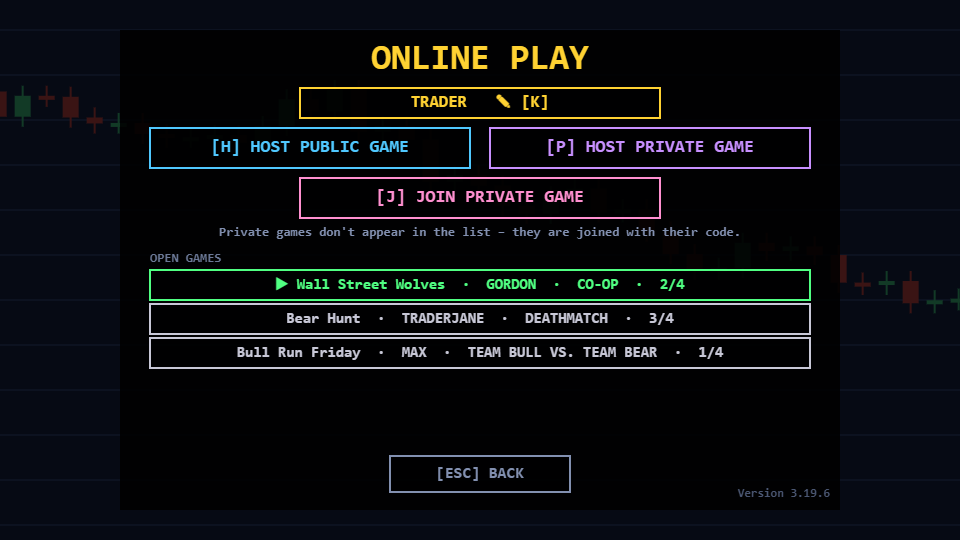
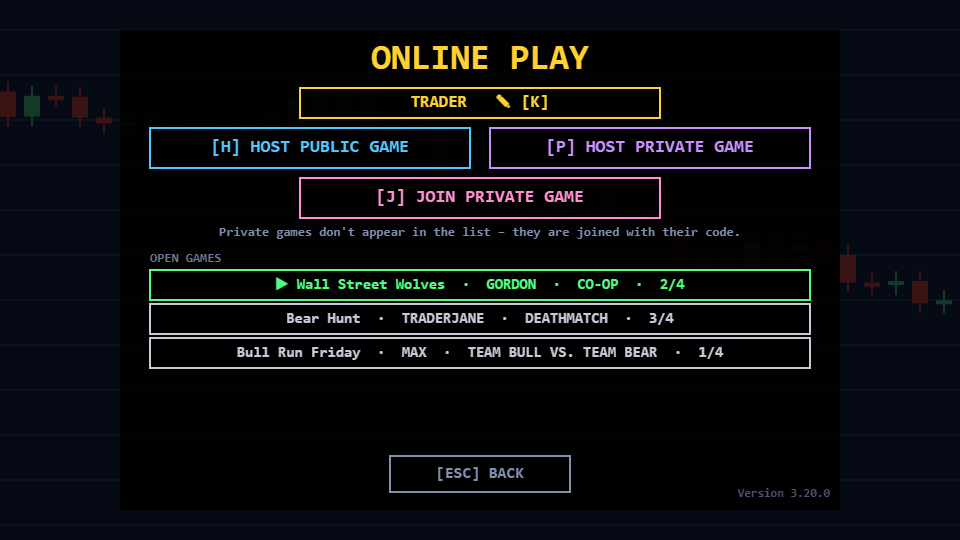
MARGIN CALL 3.20.0: neues Hauptmenue mit Solo-Auswahl, Credits, Vollbild- und Sprachknopf, Touch-Anleitung

Changed region(s): [[0.0, 0.1481, 0.125, 0.237], [0.875, 0.4741, 1.0, 0.5926]]

diff --git a/pc/game.html b/pc/game.html
@@ -79,7 +79,7 @@
 // Sprache: Englisch ist Standard, Deutsch per Optionsmenue. L(en, de) waehlt den passenden Text.
 const L = (en, de) => { try { return settings.lang === "de" ? de : en; } catch (e) { return en; } };
 const LOC = () => L("en-US", "de-DE");
-const APP_VERSION = "3.19.8";
+const APP_VERSION = "3.20.0";
 // Online-Rangliste (Cloudflare Worker, siehe worker/README.md). Leer = nicht eingerichtet, dann ist alles Online ausgeblendet.
 const ONLINE_HS_URL = "https://margincall-highscores.margincall.workers.dev";
 const RW = 320, VH = 150, TEX = 32, MAP = 20, NUM_LEVELS = 5;
@@ -1477,6 +1477,8 @@ function saveSettings() { try { localStorage.setItem(SETTINGS_KEY, JSON.stringif
 const keys = new Set();
 let mouseTurn = 0;
 const COARSE = matchMedia("(pointer: coarse)").matches || (navigator.maxTouchPoints > 0 && matchMedia("(hover: none)").matches);   // Smartphone oder Tablet
+if (COARSE) document.getElementById("hint").style.display = "none";   // Tastenkuerzel braucht es am Handy nicht
+let touchHelpT = 0;   // Anleitung der Touch-Steuerung beim ersten Spiel
 const down = a => settings.binds[a].some(k => k && keys.has(k));
 const isBound = (a, k) => settings.binds[a].includes(k);
 const keyName = e => e.code === "Space" ? " " : e.code === "Enter" || e.code === "NumpadEnter" ? "enter" : e.key.length === 1 ? e.key.toLowerCase() : e.key;
@@ -1491,9 +1493,9 @@ const bindText = a => settings.binds[a].filter(Boolean).map(bindLabel).join("/")
 function updateHint() {
   document.getElementById("hint").textContent =
     L(`${bindText("fwd")}/${bindText("back")} move · ${bindText("turnL")}/${bindText("turnR")} turn · ${bindText("strafeL")}/${bindText("strafeR")} strafe · ${bindText("fire")} fire · ${bindText("pause")} pause · ` +
-      `${bindText("music")} music · double-tap a direction = dodge · H highscores · O options · T chat (multiplayer) · Tab stats · F4 fullscreen · Q in pause = main menu`,
+      `${bindText("music")} music · double-tap a direction = dodge · H highscores · O options · T chat (multiplayer) · Tab stats · F4 fullscreen · L language (main menu)`,
     `${bindText("fwd")}/${bindText("back")} laufen · ${bindText("turnL")}/${bindText("turnR")} drehen · ${bindText("strafeL")}/${bindText("strafeR")} seitwärts · ${bindText("fire")} feuern · ${bindText("pause")} Pause · ` +
-      `${bindText("music")} Musik · 2× Richtung = Ausweichen · H Highscores · O Optionen · T Chat (Multiplayer) · Tab Statistik · F4 Vollbild · Q in der Pause = Hauptmenü`);
+      `${bindText("music")} Musik · 2× Richtung = Ausweichen · H Highscores · O Optionen · T Chat (Multiplayer) · Tab Statistik · F4 Vollbild · L Sprache (Hauptmenü)`);
 }
 
 // Optionsmenue
@@ -1633,7 +1635,7 @@ addEventListener("keyup", e => keys.delete(keyName(e)));
 addEventListener("blur", () => keys.clear());
 screen.addEventListener("contextmenu", e => e.preventDefault());
 // Schaltflaechen im Titelbild (Koordinaten im 960x540-Raster)
-const TITLE_BTNS = [{ x: 50, y: 455, w: 200, h: 44, key: "n" }, { x: 265, y: 455, w: 200, h: 44, key: "h" }, { x: 480, y: 455, w: 200, h: 44, key: "o" }, { x: 695, y: 455, w: 200, h: 44, key: "Escape" }];
+const TITLE_BTNS = [];   // Knoepfe im Titelbild sind jetzt Klickflaechen (zoneButton)
 screen.addEventListener("mousedown", e => {
   e.preventDefault();
   audioUnlock();
@@ -1722,6 +1724,7 @@ function mobileFullscreen() {   // Vollbild-Knopf: Querformat im Vollbild bzw. w
   layer.addEventListener("pointerdown", e => {
     if (e.target !== layer) return;
     e.preventDefault(); audioUnlock();
+    if (touchHelpT > 0 && touchHelpT < 7.8) touchHelpT = .5;   // Anleitung beim Tippen ausblenden
     // linke und rechte Haelfte sind strikt getrennt: links nur der Stick (ein Finger), rechts Drehen und Feuern
     if (e.clientX < innerWidth / 2) {
       if (stickId !== null) return;   // zweiter Finger links: ignorieren
@@ -1788,6 +1791,12 @@ function onKeyPress(k) {
     else if (isBound("pause", k) || k === "Escape") { if (k !== "Escape" || pauseAge() > .4) { mpMenu = false; lockMouse(); } }
     return;
   }
+  if (state === ST.TITLE && soloAsk) {   // Auswahl Normal / Hardcore
+    if (k === "enter" || k === "1") { soloAsk = false; startSolo(false); }
+    else if (k === "x" || k === "2") { soloAsk = false; startSolo(true); }
+    else if (k === "Escape") soloAsk = false;
+    return;
+  }
   if (state === ST.TITLE && quitAsk) {
     if (k === "enter") { quitAsk = false; quitGame(); }
     else if (k === "Escape") quitAsk = false;
@@ -1802,12 +1811,12 @@ function onKeyPress(k) {
     case ST.TITLE:
       if (k === "o") openOptions();
       else if (k === "h") openHighscores();
+      else if (k === "c") startMenuCredits();
+      else if (k === "l") { settings.lang = settings.lang === "de" ? "en" : "de"; saveSettings(); buildTicker(); sfx("HIT"); }
       else if (k === "Escape") quitAsk = true;
       else if (k === "n") { if (WEB_BUILD) openOnline(); else if (IN_APP && isLocalOrigin()) state = ST.MPMENU; else enterLobby(); }
-      else if (k === "enter" || k === "x") {   // X = Hardcore
-        hardcore = k === "x"; mode = "solo"; players = [me = makePlayer(0, true)]; newGame(); if (hardcore) me.ammo = 20;
-        state = ST.PLAY; fireCd = .4; sfx("KACHING"); lockMouse(); if (hardcore) say(L("HARDCORE: ONE BANKRUPTCY AND IT'S OVER", "HARDCORE: EINE INSOLVENZ UND ES IST VORBEI"), 3);
-      }
+      else if (k === "enter") soloAsk = true;   // Auswahl Normal / Hardcore
+      else if (k === "x") startSolo(true);
       break;
     case ST.LOBBY:
       if (k === "Escape") { leaveMP(); break; }
@@ -1863,7 +1872,7 @@ function onKeyPress(k) {
       else if (k === "h") finishRun(false);   // aufgeben: Lauf endet, Highscore eintragen
       break;
     case ST.CREDITS:
-      if (k === "enter" || k === "Escape" || k === " ") startIsland();
+      if (k === "enter" || k === "Escape" || k === " ") creditsDone();
       break;
     case ST.OUTRO:
       if (k === "enter" || k === "Escape" || k === " ") state = ST.WIN;
@@ -2669,8 +2678,9 @@ const creditLines = () => [
   [L("Live quotes", "Live-Kurse"), 16, "#8290b0"], ["Yahoo Finance", 20, "#e6e6f0"], ["", 8],
   [L("Tech", "Technik"), 16, "#8290b0"], ["Tauri · Rust · Cloudflare · M5Stack Cardputer", 20, "#e6e6f0"], ["", 18],
   [L("No bulls or bears were seriously harmed.", "Kein Bulle und kein Bär wurde ernsthaft verletzt."), 16, "#a0a0b4"], [L("Not investment advice.", "Keine Anlageberatung."), 16, "#a0a0b4"], ["", 26],
-  [L("The market is free again.", "Der Markt ist wieder frei."), 22, "#50ff82"], [L("But where to put all that money now …?", "Aber wohin jetzt mit dem ganzen Geld …?"), 22, "#50ff82"], ["", 14],
-  [L("OFF TO TAX HAVEN!", "AB INS STEUERPARADIES!"), 34, "#ffd232"],
+  ...(creditsMenu ? [[L("THANKS FOR PLAYING!", "DANKE FÜRS SPIELEN!"), 34, "#ffd232"]] : [
+    [L("The market is free again.", "Der Markt ist wieder frei."), 22, "#50ff82"], [L("But where to put all that money now …?", "Aber wohin jetzt mit dem ganzen Geld …?"), 22, "#50ff82"], ["", 14],
+    [L("OFF TO TAX HAVEN!", "AB INS STEUERPARADIES!"), 34, "#ffd232"]]),
 ];
 function renderCredits() {
   chartBackground("#145a2d", "#282828");
@@ -2882,20 +2892,15 @@ function renderTitle() {
   text(`${L("Quotes as of", "Kursstand")}: ${when}  ·  ${mStat()}`, DW / 2, 312, "#8290b0", 15, "center");
   // Hauptknopf: Einzelspieler starten (pulsiert leicht)
   const pulse = .5 + .5 * Math.sin(gameTime * 4);
-  g.fillStyle = `rgba(255,210,50,${(.08 + .1 * pulse).toFixed(2)})`; g.fillRect(170, 378, 360, 56);
-  zoneButton(170, 378, 360, 56, L("▶  [ENTER] PLAY SOLO", "▶  [ENTER] SOLO SPIELEN"), "#ffd232", "enter", 24);
-  zoneButton(550, 378, 240, 56, "☠  [X] HARDCORE", "#ff5050", "x", 22);
-  button(TITLE_BTNS[0], "[N] MULTIPLAYER", "#50c8ff");
-  button(TITLE_BTNS[1], "[H] HIGHSCORES", "#ffd232");
-  button(TITLE_BTNS[2], L("[O] OPTIONS", "[O] OPTIONEN"), "#50ff82");
-  button(TITLE_BTNS[3], L("[ESC] QUIT", "[ESC] BEENDEN"), "#ff7050");
+  g.fillStyle = `rgba(255,210,50,${(.08 + .1 * pulse).toFixed(2)})`; g.fillRect(280, 352, 400, 60);
+  zoneButton(280, 352, 400, 60, L("▶  [ENTER] PLAY SOLO", "▶  [ENTER] SOLO SPIELEN"), "#ffd232", "enter", 26);
+  [["[N] MULTIPLAYER", "#50c8ff", "n"], ["[H] HIGHSCORES", "#ffd232", "h"], [L("[O] OPTIONS", "[O] OPTIONEN"), "#50ff82", "o"],
+   ["[C] CREDITS", "#c890ff", "c"], [L("[ESC] QUIT", "[ESC] BEENDEN"), "#ff7050", "Escape"]]
+    .forEach(([lb, col, key], i) => zoneButton(30 + i * 182, 452, 172, 44, lb, col, key, 16));
+  zoneButton(14, 34, 150, 30, settings.lang === "de" ? "[L] ENGLISH" : "[L] DEUTSCH", "#50c8ff", "l", 14);
+  if (!COARSE) zoneButton(DW - 194, 34, 180, 30, fsOn ? L("⛶ [F4] EXIT FULLSCREEN", "⛶ [F4] VOLLBILD AUS") : L("⛶ [F4] FULLSCREEN", "⛶ [F4] VOLLBILD"), "#ffd232", "F4", 14);
   if (netMsgT > 0) text(netMsg, DW / 2, 428, "#ff7050", 16, "center");
   text(CREDITS, DW - 14, 518, "#6b7896", 13, "right");
-  // Vollbild-Hinweis unten links (anklickbar)
-  const fsLabel = L(`[F4] FULLSCREEN ${fsOn ? "OFF" : "ON"}`, `[F4] VOLLBILD ${fsOn ? "AUS" : "AN"}`);
-  g.font = FONT(13); const fsW = g.measureText(fsLabel).width;
-  text(fsLabel, 14, 518, hovered(10, 512, fsW + 8, 22) ? "#ffffff" : "#8290b0", 13);
-  zone(10, 512, fsW + 8, 22, "F4");
 }
 function renderLobby() {
   chartBackground("#123a26", "#3a1414");
@@ -3718,6 +3723,39 @@ function joinKey(k) {
   }
   if (k.length === 1 && /[0-9a-z.:\-]/.test(k) && joinText.length < 40) joinText += k;
 }
+let soloAsk = false;
+function startSolo(hc) {
+  hardcore = hc; mode = "solo"; players = [me = makePlayer(0, true)]; newGame(); if (hardcore) me.ammo = 20;
+  state = ST.PLAY; fireCd = .4; sfx("KACHING"); lockMouse(); if (hardcore) say(L("HARDCORE: ONE BANKRUPTCY AND IT'S OVER", "HARDCORE: EINE INSOLVENZ UND ES IST VORBEI"), 3);
+}
+function renderTouchHelp() {   // erklaert die Handy-Steuerung, verschwindet nach ein paar Sekunden oder beim Tippen
+  g.globalAlpha = Math.min(1, touchHelpT / .6);
+  const box = (x, y, w, h, title, lines, col) => {
+    g.fillStyle = "rgba(0,0,0,.78)"; g.fillRect(x, y, w, h); g.strokeStyle = col; g.lineWidth = 2; g.strokeRect(x, y, w, h);
+    text(title, x + w / 2, y + 10, col, 20, "center");
+    lines.forEach((l, i) => text(l, x + w / 2, y + 42 + i * 22, "#e6e6f0", 15, "center"));
+  };
+  box(40, 120, 400, 140, L("◀ LEFT HALF: MOVE", "◀ LINKE HÄLFTE: LAUFEN"), [L("Put your thumb down anywhere", "Daumen irgendwo aufsetzen"), L("and push = walk & strafe", "und schieben = laufen & seitwärts"), L("Tap = one shot", "Antippen = ein Schuss")], "#50c8ff");
+  box(520, 120, 400, 140, L("RIGHT HALF: AIM & FIRE ▶", "RECHTE HÄLFTE: ZIELEN & FEUERN ▶"), [L("Swipe = turn", "Wischen = drehen"), L("Tap = shot · hold = continuous fire", "Tippen = Schuss · halten = Dauerfeuer"), L("(you can keep turning while holding)", "(beim Halten weiter drehbar)")], "#ffd232");
+  g.fillStyle = "rgba(0,0,0,.78)"; g.fillRect(650, 280, 196, 28); g.fillRect(56, 68, 120, 26); g.fillRect(250, 290, 460, 26);
+  text(L("dash  » ▶", "Ausweichen  » ▶"), 836, 285, "#ffd232", 16, "right");
+  text(L("◀ II = pause", "◀ II = Pause"), 64, 73, "#e6e6f0", 15);
+  text(L("Auto aim and turn speed: Options", "Auto-Aim und Drehtempo: Optionen"), DW / 2, 296, "#c8c8d7", 14, "center");
+  g.globalAlpha = 1;
+}
+function renderSoloAsk() {
+  g.fillStyle = "rgba(0,0,0,.75)"; g.fillRect(0, 0, DW, DH);
+  g.fillStyle = "#07090f"; g.fillRect(150, 110, 660, 320); g.strokeStyle = "#ffd232"; g.lineWidth = 2; g.strokeRect(150, 110, 660, 320);
+  text(L("PLAY SOLO", "SOLO SPIELEN"), DW / 2, 128, "#ffd232", 30, "center");
+  zoneButton(180, 180, 290, 64, L("▶  [ENTER] NORMAL", "▶  [ENTER] NORMAL"), "#50ff82", "enter", 22);
+  zoneButton(490, 180, 290, 64, "☠  [X] HARDCORE", "#ff5050", "x", 22);
+  [L("All 5 levels.", "Alle 5 Level."), L("Broke? A new loan", "Pleite? Mit neuem Kredit"), L("gets you back in the game.", "geht es weiter.")].forEach((l, i) => text(l, 325, 256 + i * 20, "#c8c8d7", 14, "center"));
+  [L("Much tougher enemies,", "Viel stärkere Gegner,"), L("fewer supplies, 1.5× points", "weniger Nachschub, 1,5-fache Punkte"), L("– and only ONE life.", "– und nur EIN Leben.")].forEach((l, i) => text(l, 635, 256 + i * 20, "#ffb0a0", 14, "center"));
+  zoneButton(380, 362, 200, 40, L("[ESC] BACK", "[ESC] ZURÜCK"), "#8290b0", "Escape", 16);
+}
+let creditsMenu = false;   // Abspann aus dem Hauptmenue: danach zurueck ins Menue statt in die Steueroase
+function startMenuCredits() { creditsMenu = true; creditsT = 0; state = ST.CREDITS; musicStart(); }
+function creditsDone() { if (creditsMenu) { creditsMenu = false; state = ST.TITLE; musicStart(); } else startIsland(); }
 function renderQuitAsk() {
   g.fillStyle = "rgba(0,0,0,.75)"; g.fillRect(0, 0, DW, DH);
   g.fillStyle = "#000"; g.fillRect(250, 180, 460, 150); g.strokeStyle = "#ff7050"; g.lineWidth = 2; g.strokeRect(250, 180, 460, 150);
@@ -3826,12 +3864,16 @@ function frame(now) {
   }
   if (isHost() && net.connected && isMP() && state !== ST.PLAY && state !== ST.LOBBY && performance.now() - lastSent > (net.online ? 500 : 200)) { lastSent = performance.now(); hostSendSnapshot(); }
   switch (state) {
-    case ST.TITLE: gameTime += dt; renderTitle(); if (quitAsk) renderQuitAsk(); break;
+    case ST.TITLE: gameTime += dt; renderTitle(); if (soloAsk) renderSoloAsk(); else if (quitAsk) renderQuitAsk(); break;
     case ST.PRIVACY: gameTime += dt; renderPrivacy(); break;
     case ST.NAMEENTRY: gameTime += dt; renderNameEntry(); break;
     case ST.HIGHSCORES: gameTime += dt; renderHighscores(); break;
     case ST.LOBBY: gameTime += dt; renderLobby(); break;
-    case ST.PLAY: updateGame(dt); if (state === ST.PLAY) { renderPlay(dt); if (mpMenu) renderMpMenu(); } break;
+    case ST.PLAY: updateGame(dt); if (state === ST.PLAY) {
+      renderPlay(dt); if (mpMenu) renderMpMenu();
+      if (COARSE && !settings.touchHelpSeen) { settings.touchHelpSeen = true; saveSettings(); touchHelpT = 9; }
+      if (touchHelpT > 0) { touchHelpT -= dt; renderTouchHelp(); }
+    } break;
     case ST.MPMENU: gameTime += dt; renderMpChoice(); break;
     case ST.JOIN: gameTime += dt; renderJoin(); break;
     case ST.ONLINE: gameTime += dt; renderOnline(); break;
@@ -3859,7 +3901,7 @@ function frame(now) {
       if (HC()) renderEnd("GAME OVER", L("Hardcore: bankruptcy is final – your run is over", "Hardcore: Die Insolvenz ist endgültig – dein Lauf ist vorbei"), "#ff3c3c", false);
       else renderEnd(L("BANKRUPT", "INSOLVENZ"), L(`Bankruptcy no. ${me.deaths} – penalty −$${deathPenalty.toLocaleString(LOC())} (25 % of P&L)`, `Insolvenz Nr. ${me.deaths} – Strafe −$${deathPenalty.toLocaleString(LOC())} (25 % des P&L)`), "#ff3c3c", false);
       break;
-    case ST.CREDITS: gameTime += dt; creditsT += dt; renderCredits(); if (creditsT > CREDITS_LEN) startIsland(); break;
+    case ST.CREDITS: gameTime += dt; creditsT += dt; renderCredits(); if (creditsT > CREDITS_LEN) creditsDone(); break;
     case ST.OUTRO: gameTime += dt; outroT += dt; renderOutro(dt); if (outroT > OUTRO_LEN) state = ST.WIN; break;
     case ST.WIN: gameTime += dt;
       if (islandDone) { renderEnd(L("TAX HAVEN", "STEUEROASE"), `${isleResult}  ·  Gold ${isleCoins}/${ISLE_COINS}${isleAll ? ` · Bonus +$${ISLE_ALL_BONUS.toLocaleString(LOC())}` : ""}`, "#ffd232", true); break; }

diff --git a/src/main.cpp b/src/main.cpp
@@ -46,7 +46,7 @@ enum { S_BEAR0, S_BEAR1, S_SELL0, S_SELL1, S_BUB0, S_BUB1, S_SHARK0, S_SHARK1,
 static uint16_t sprTex[NUM_SPR][TEX * TEX];          // geswappt, 0 = transparent
 
 static uint32_t tmp[TEX * TEX];                      // RGB888-Arbeitspuffer (0 = transparent)
-#define FW_VERSION "3.19.8"   // Spielversion, wird mit jedem Release angehoben
+#define FW_VERSION "3.20.0"   // Spielversion, wird mit jedem Release angehoben
 static uint32_t rngState = 0x1234567;
 static uint32_t rnd() { rngState ^= rngState << 13; rngState ^= rngState >> 17; rngState ^= rngState << 5; return rngState; }
 static float frand() { return (rnd() & 0xFFFF) / 65535.0f; }

diff --git a/README.de.md b/README.de.md
@@ -12,14 +12,14 @@ Ganz ohne Installation: **[MARGIN CALL im Browser spielen](https://wolfgangraben
 
 ## Downloads
 
-Aktuelle Version **3.19.8** – Datei anklicken, der Download startet sofort:
+Aktuelle Version **3.20.0** – Datei anklicken, der Download startet sofort:
 
 | Download | System |
 |---|---|
-| [**MarginCall-3.19.8-Windows.exe**](https://github.com/wolfgangrabenstein/margincall/releases/download/v3.19.8/MarginCall-3.19.8-Windows.exe) | Windows 10/11 |
-| [**MarginCall-3.19.8-macOS.dmg**](https://github.com/wolfgangrabenstein/margincall/releases/download/v3.19.8/MarginCall-3.19.8-macOS.dmg) | macOS 10.15 und neuer (Intel und Apple Silicon) |
-| [**MarginCall-3.19.8-Linux.AppImage**](https://github.com/wolfgangrabenstein/margincall/releases/download/v3.19.8/MarginCall-3.19.8-Linux.AppImage) | Linux (x86_64) |
-| [**MarginCall-3.19.8-Cardputer.bin**](https://github.com/wolfgangrabenstein/margincall/releases/download/v3.19.8/MarginCall-3.19.8-Cardputer.bin) | M5Stack Cardputer ADV, über den M5Launcher von der SD-Karte |
+| [**MarginCall-3.20.0-Windows.exe**](https://github.com/wolfgangrabenstein/margincall/releases/download/v3.20.0/MarginCall-3.20.0-Windows.exe) | Windows 10/11 |
+| [**MarginCall-3.20.0-macOS.dmg**](https://github.com/wolfgangrabenstein/margincall/releases/download/v3.20.0/MarginCall-3.20.0-macOS.dmg) | macOS 10.15 und neuer (Intel und Apple Silicon) |
+| [**MarginCall-3.20.0-Linux.AppImage**](https://github.com/wolfgangrabenstein/margincall/releases/download/v3.20.0/MarginCall-3.20.0-Linux.AppImage) | Linux (x86_64) |
+| [**MarginCall-3.20.0-Cardputer.bin**](https://github.com/wolfgangrabenstein/margincall/releases/download/v3.20.0/MarginCall-3.20.0-Cardputer.bin) | M5Stack Cardputer ADV, über den M5Launcher von der SD-Karte |
 
 Neuere Version erschienen? Immer aktuell: [neueste Version](https://github.com/wolfgangrabenstein/margincall/releases/latest) · ältere: [alle Releases](https://github.com/wolfgangrabenstein/margincall/releases) · Änderungen: [CHANGELOG](CHANGELOG.de.md)
 
@@ -56,8 +56,9 @@ Made by Wolfgang Rabenstein · Open Source unter der [MIT-Lizenz](LICENSE) · [C
 | Weiterspielen | Esc oder P im Pausenmenü |
 | Zurück ins Hauptmenü | Q im Pausenmenü |
 | Beenden | Esc im Hauptmenü, dann mit Enter bestätigen |
-| Hardcore starten | X im Hauptmenü |
-| Sprache (Englisch/Deutsch) | Optionen → Language; Cardputer: L im Titelbild |
+| Solo spielen: Normal oder Hardcore | Enter im Hauptmenü, dann Enter (Normal) oder X (Hardcore) |
+| Credits | C im Hauptmenü |
+| Sprache (Englisch/Deutsch) | L im Hauptmenü oder Optionen → Sprache; Cardputer: L im Titelbild |
 | Vollbild | F4 |
 | Musik | M |
 | Optionen (Tastenbelegung) | O |

diff --git a/README.md b/README.md
@@ -12,14 +12,14 @@ No installation needed: **[play MARGIN CALL in the browser](https://wolfgangrabe
 
 ## Downloads
 
-Current version **3.19.8** – click a file and the download starts right away:
+Current version **3.20.0** – click a file and the download starts right away:
 
 | Download | System |
 |---|---|
-| [**MarginCall-3.19.8-Windows.exe**](https://github.com/wolfgangrabenstein/margincall/releases/download/v3.19.8/MarginCall-3.19.8-Windows.exe) | Windows 10/11 |
-| [**MarginCall-3.19.8-macOS.dmg**](https://github.com/wolfgangrabenstein/margincall/releases/download/v3.19.8/MarginCall-3.19.8-macOS.dmg) | macOS 10.15 or newer (Intel and Apple Silicon) |
-| [**MarginCall-3.19.8-Linux.AppImage**](https://github.com/wolfgangrabenstein/margincall/releases/download/v3.19.8/MarginCall-3.19.8-Linux.AppImage) | Linux (x86_64) |
-| [**MarginCall-3.19.8-Cardputer.bin**](https://github.com/wolfgangrabenstein/margincall/releases/download/v3.19.8/MarginCall-3.19.8-Cardputer.bin) | M5Stack Cardputer ADV, via M5Launcher from the SD card |
+| [**MarginCall-3.20.0-Windows.exe**](https://github.com/wolfgangrabenstein/margincall/releases/download/v3.20.0/MarginCall-3.20.0-Windows.exe) | Windows 10/11 |
+| [**MarginCall-3.20.0-macOS.dmg**](https://github.com/wolfgangrabenstein/margincall/releases/download/v3.20.0/MarginCall-3.20.0-macOS.dmg) | macOS 10.15 or newer (Intel and Apple Silicon) |
+| [**MarginCall-3.20.0-Linux.AppImage**](https://github.com/wolfgangrabenstein/margincall/releases/download/v3.20.0/MarginCall-3.20.0-Linux.AppImage) | Linux (x86_64) |
+| [**MarginCall-3.20.0-Cardputer.bin**](https://github.com/wolfgangrabenstein/margincall/releases/download/v3.20.0/MarginCall-3.20.0-Cardputer.bin) | M5Stack Cardputer ADV, via M5Launcher from the SD card |
 
 Newer version out? Always current: [latest release](https://github.com/wolfgangrabenstein/margincall/releases/latest) · older: [all releases](https://github.com/wolfgangrabenstein/margincall/releases) · changes: [CHANGELOG](CHANGELOG.md)
 
@@ -58,8 +58,9 @@ MARGIN CALL runs as a small standalone app on Windows, macOS and Linux (Tauri), 
 | Resume | Esc or P in the pause menu |
 | Back to main menu | Q in the pause menu |
 | Quit | Esc in the main menu, then confirm with Enter |
-| Start hardcore | X in the main menu |
-| Language (English/German) | Options → Language; Cardputer: L on the title screen |
+| Play solo: normal or hardcore | Enter in the main menu, then Enter (normal) or X (hardcore) |
+| Credits | C in the main menu |
+| Language (English/German) | L in the main menu or Options → Language; Cardputer: L on the title screen |
 | Fullscreen | F4 |
 | Music | M |
 | Options (key bindings) | O |

diff --git a/CHANGELOG.de.md b/CHANGELOG.de.md
@@ -2,6 +2,15 @@
 
 **Sprache:** [English](CHANGELOG.md) · **Deutsch**
 
+## Version 3.20.0 – neues Hauptmenü, Credits, Touch-Anleitung (19.10.2026)
+
+- **Hauptmenü:**
+  - Ein großer Knopf **Solo spielen**; danach wählst du **Normal** oder **Hardcore**, jeweils mit kurzer Erklärung (Hardcore: viel stärkere Gegner, weniger Nachschub, 1,5-fache Punkte und nur ein Leben). Der eigene Hardcore-Knopf entfällt; X startet Hardcore weiterhin direkt.
+  - Neuer Knopf **Credits** (Taste C): der Abspann wie nach dem Sieg, danach geht es zurück ins Menü.
+  - **Vollbild** ist jetzt ein deutlicher Knopf oben rechts, **Sprache** ein Knopf oben links; die Taste **L** wechselt im Hauptmenü die Sprache.
+- **Handy:** Beim ersten Spiel erklärt eine kurze Einblendung die Touch-Steuerung (Stick links, rechts wischen und tippen, Ausweichen, Pause); sie verschwindet nach ein paar Sekunden oder beim Tippen. Die Tastenkürzel unter dem Bild entfallen am Handy.
+- **Tastenkürzel-Zeile (PC):** „Q in der Pause“ entfällt, dafür steht dort „L Sprache“.
+
 ## Version 3.19.8 – Auto-Aim in drei Stufen (19.10.2026)
 
 - **Auto-Aim: Aus, Semi oder Full.**

diff --git a/CHANGELOG.md b/CHANGELOG.md
@@ -2,6 +2,15 @@
 
 **Language:** **English** · [Deutsch](CHANGELOG.de.md)
 
+## Version 3.20.0 – New main menu, credits, touch tutorial (2026-10-19)
+
+- **Main menu:**
+  - One big **Play solo** button; then you choose **Normal** or **Hardcore**, each with a short explanation (Hardcore: much tougher enemies, fewer supplies, 1.5× points and only one life). The separate Hardcore button is gone; X still starts Hardcore directly.
+  - New **Credits** button (key C): the credits from the end of the game, then back to the menu.
+  - **Fullscreen** is now a clear button at the top right, **language** a button at the top left; the **L** key switches the language in the main menu.
+- **Phones:** On your first game a short overlay explains the touch controls (stick on the left, swipe and tap on the right, dodge, pause); it disappears after a few seconds or when you tap. The key hints below the game screen are hidden on phones.
+- **Key hint line (PC):** "Q in pause" is gone; it now says "L language" instead.
+
 ## Version 3.19.8 – Auto aim in three levels (2026-10-19)
 
 - **Auto aim: Off, Semi or Full.**
